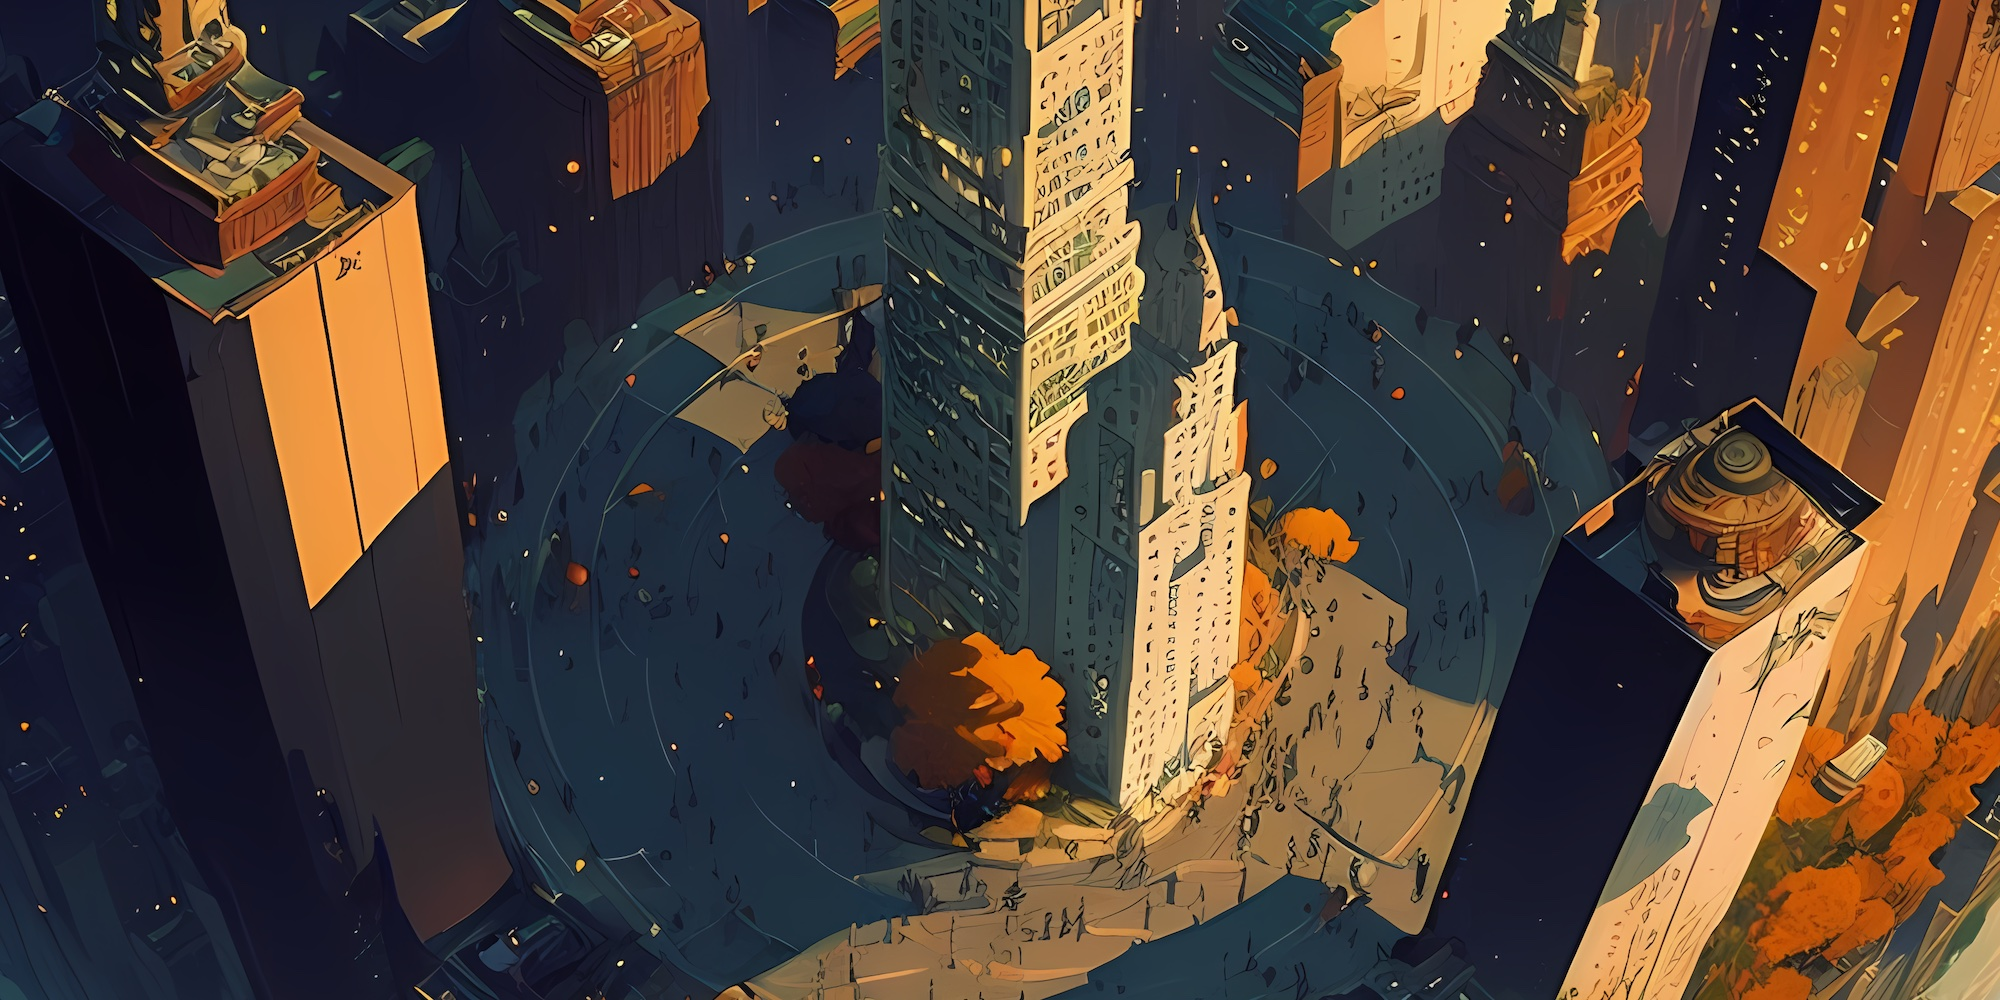
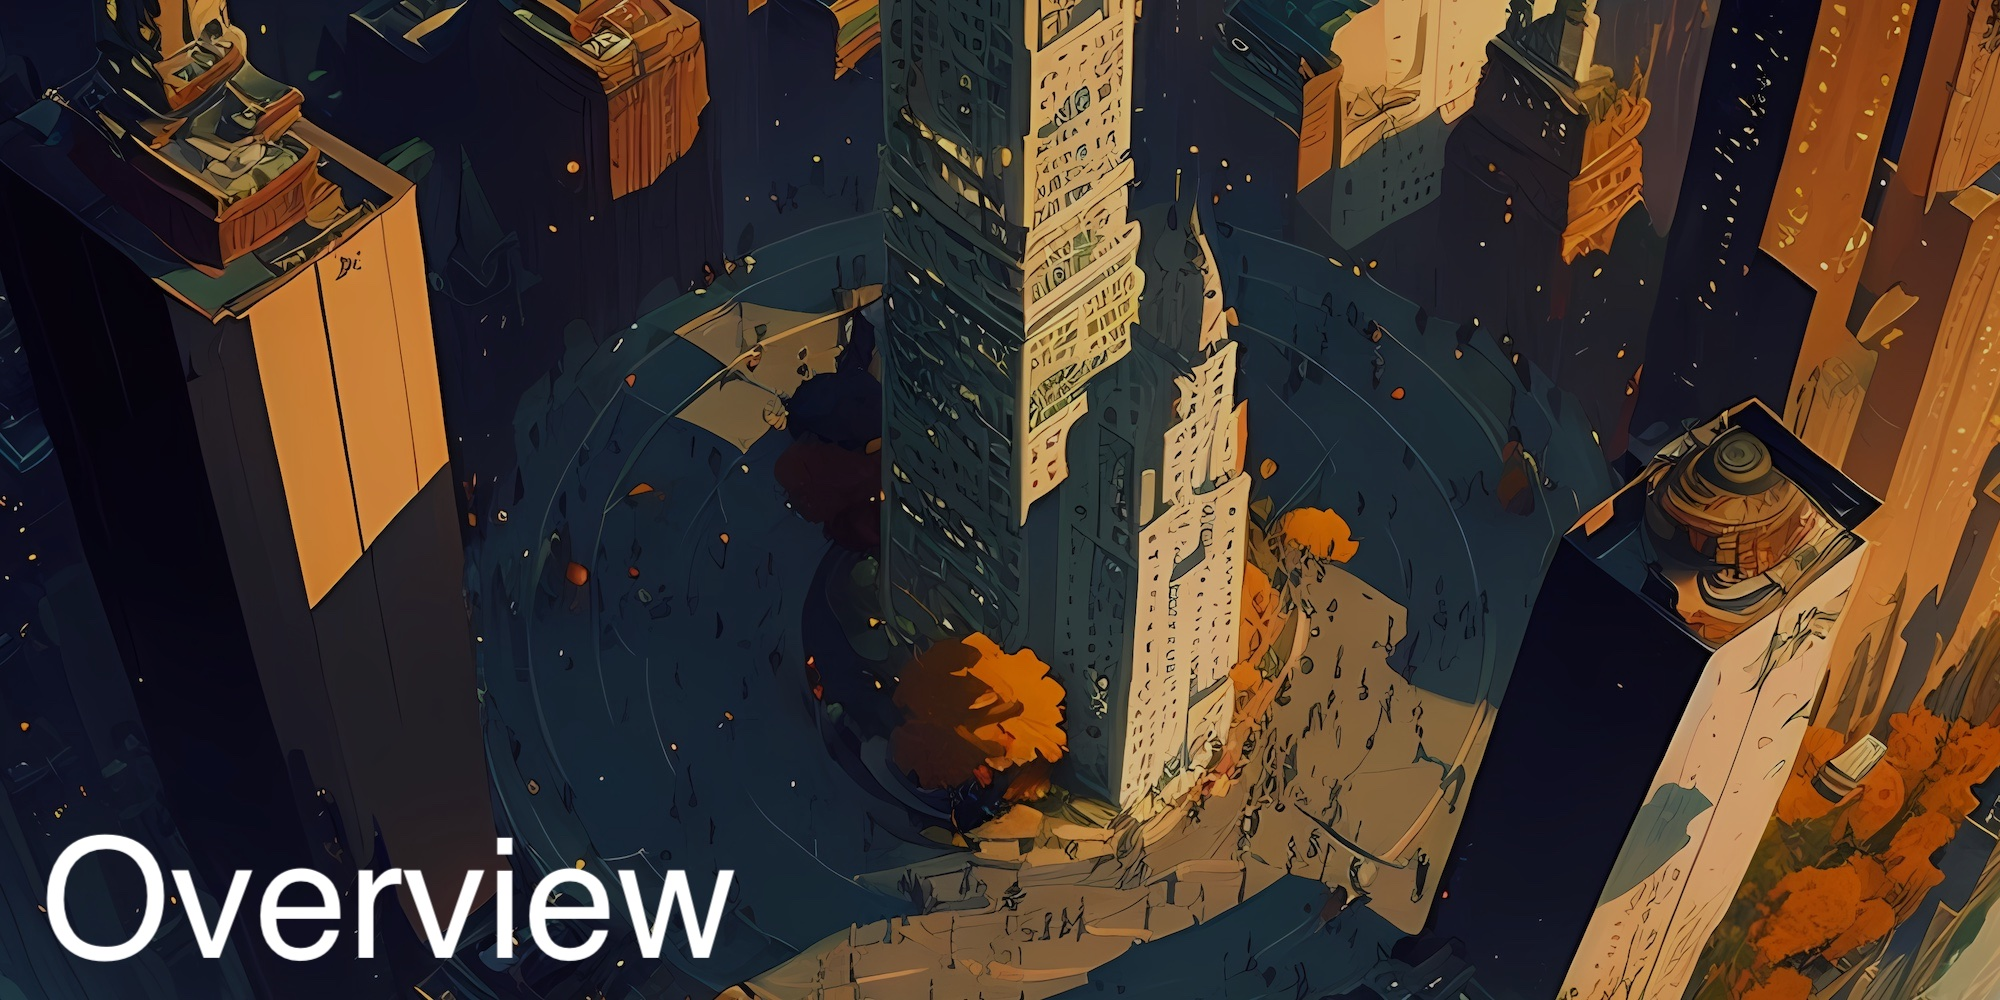
vault backup: 2023-01-21 13:01:20

diff --git a/Settings.md b/Settings.md
@@ -1,4 +1,5 @@
-# Settings
+![[page.settings.jpg]]
+[[Home]] • [[Overview]] • [[Styles]]
 
 This page covers the obsidian publish settings used for the theme. The obsidian publish [documentation](https://help.obsidian.md/Obsidian+Publish/Introduction+to+Obsidian+Publish) may also be a useful resource.
 

diff --git a/Overview.md b/Overview.md
@@ -1,3 +1,6 @@
+![[page.overview.jpg]]
+[[Home]] • [[Settings]] • [[Styles]]
+
 # Overview
 
 

diff --git a/Styles.md b/Styles.md
@@ -1,1 +1,4 @@
-# Styles
+![[page.styles.jpg]]
+[[Home]] • [[Overview]] • [[Settings]]
+
+

diff --git a/Home.md b/Home.md
@@ -1,1 +1,4 @@
-# Home
+![[page.home.jpg]]
+[[Overview]] • [[Settings]] • [[Styles]]
+
+
